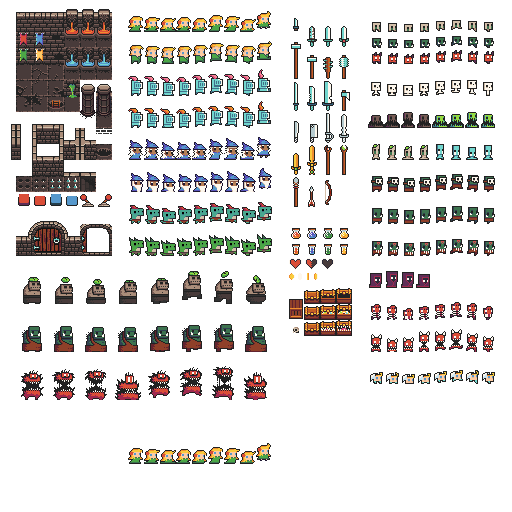
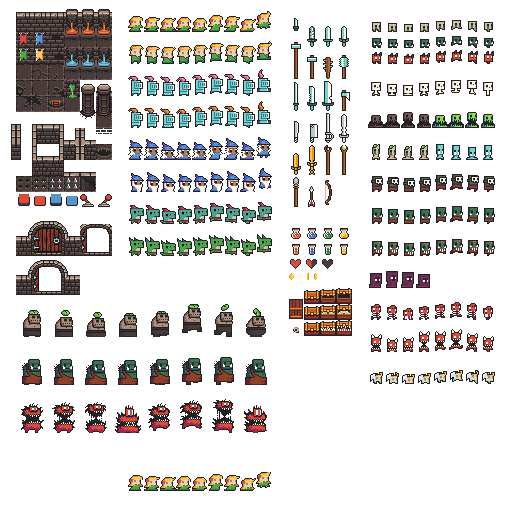
finished small room

Changed region(s): [[0.0312, 0.5, 0.5312, 0.9688]]

diff --git a/src/scenes/levelscene.cpp b/src/scenes/levelscene.cpp
@@ -59,6 +59,9 @@ LevelScene::LevelScene() : GameScene()
 	this->walls.push_back(l1);
 	this->walls.push_back(l2);
 
+	this->door.setPosition(sf::Vector2f(370, 300 - this->door.getSize().y));
+	this->door.setState(DoorState::Closed);
+
 	this->player = new Player();
 	this->player->setPosition(sf::Vector2f(300, 300),true);
 
@@ -124,6 +127,7 @@ void LevelScene::draw(sf::RenderTarget& target)
 			{
 				this->walls[i].draw(target);
 			}
+			this->door.draw(target);
 			target.draw(this->example_text);
 			this->player->draw(target);
 		}
@@ -147,6 +151,7 @@ void LevelScene::loadResources()
 	{
 		this->walls[i].setTexture(this->levelmain_texture);
 	}
+	this->door.setTexture(this->levelmain_texture);
 	this->player->setTexture(this->levelmain_texture);
 
 	//end

diff --git a/src/level/door.cpp b/src/level/door.cpp
@@ -1,0 +1,27 @@
+#include"../../src/headers/level/Door.h"
+
+Door::Door()
+{
+	this->hasCollision = true;
+	this->setState(DoorState::Closed);
+}
+
+void Door::setState(DoorState state)
+{
+	switch (state)
+	{
+		case DoorState::Closed:
+			this->texture_rect.left = 16;
+			this->texture_rect.top = 221;
+			this->texture_rect.width = 64;
+			this->texture_rect.height = 35;
+			break;
+
+		case DoorState::Opened:
+			this->texture_rect.left = 16;
+			this->texture_rect.top = 260;
+			this->texture_rect.width = 64;
+			this->texture_rect.height = 35;
+			break;
+	}
+}

diff --git a/src/headers/scenes/LevelScene.h b/src/headers/scenes/LevelScene.h
@@ -2,6 +2,7 @@
 #include"GameScene.h"
 #include"../../headers/level/Floor.h"
 #include"../../headers/level/Wall.h"
+#include"../../headers/level/Door.h"
 #include"../../headers/entities/Player.h"
 #include"../../headers/tools/GameLog.h"
 
@@ -20,6 +21,8 @@ private:
 	Player* player;
 
 	Floor* floor;
+
+	Door door;
 
 	std::vector<Wall> walls;
 

diff --git a/src/headers/level/Door.h b/src/headers/level/Door.h
@@ -1,0 +1,23 @@
+#pragma once
+#include"GameObject.h"
+
+enum class DoorState
+{
+	Closed,
+	Opened
+};
+
+class Door : public GameObject
+{
+private:
+
+	DoorState state;	// if door is opened or closed
+
+public:
+
+	// default constructor
+	Door();
+
+	// set door's state
+	void setState(DoorState state);
+};

diff --git a/src/level/wall.cpp b/src/level/wall.cpp
@@ -115,7 +115,7 @@ void Wall::initAnim()
 	std::vector<unsigned int> time;
 	for (int i = 0; i < 3; i++)
 	{
-		time.push_back(Animation::ATime* 0.07);
+		time.push_back(Animation::ATime* 0.075);
 	}
 	anim.init(3, time, sf::Vector2i(this->texture_rect.left, this->texture_rect.top), true);
 }
